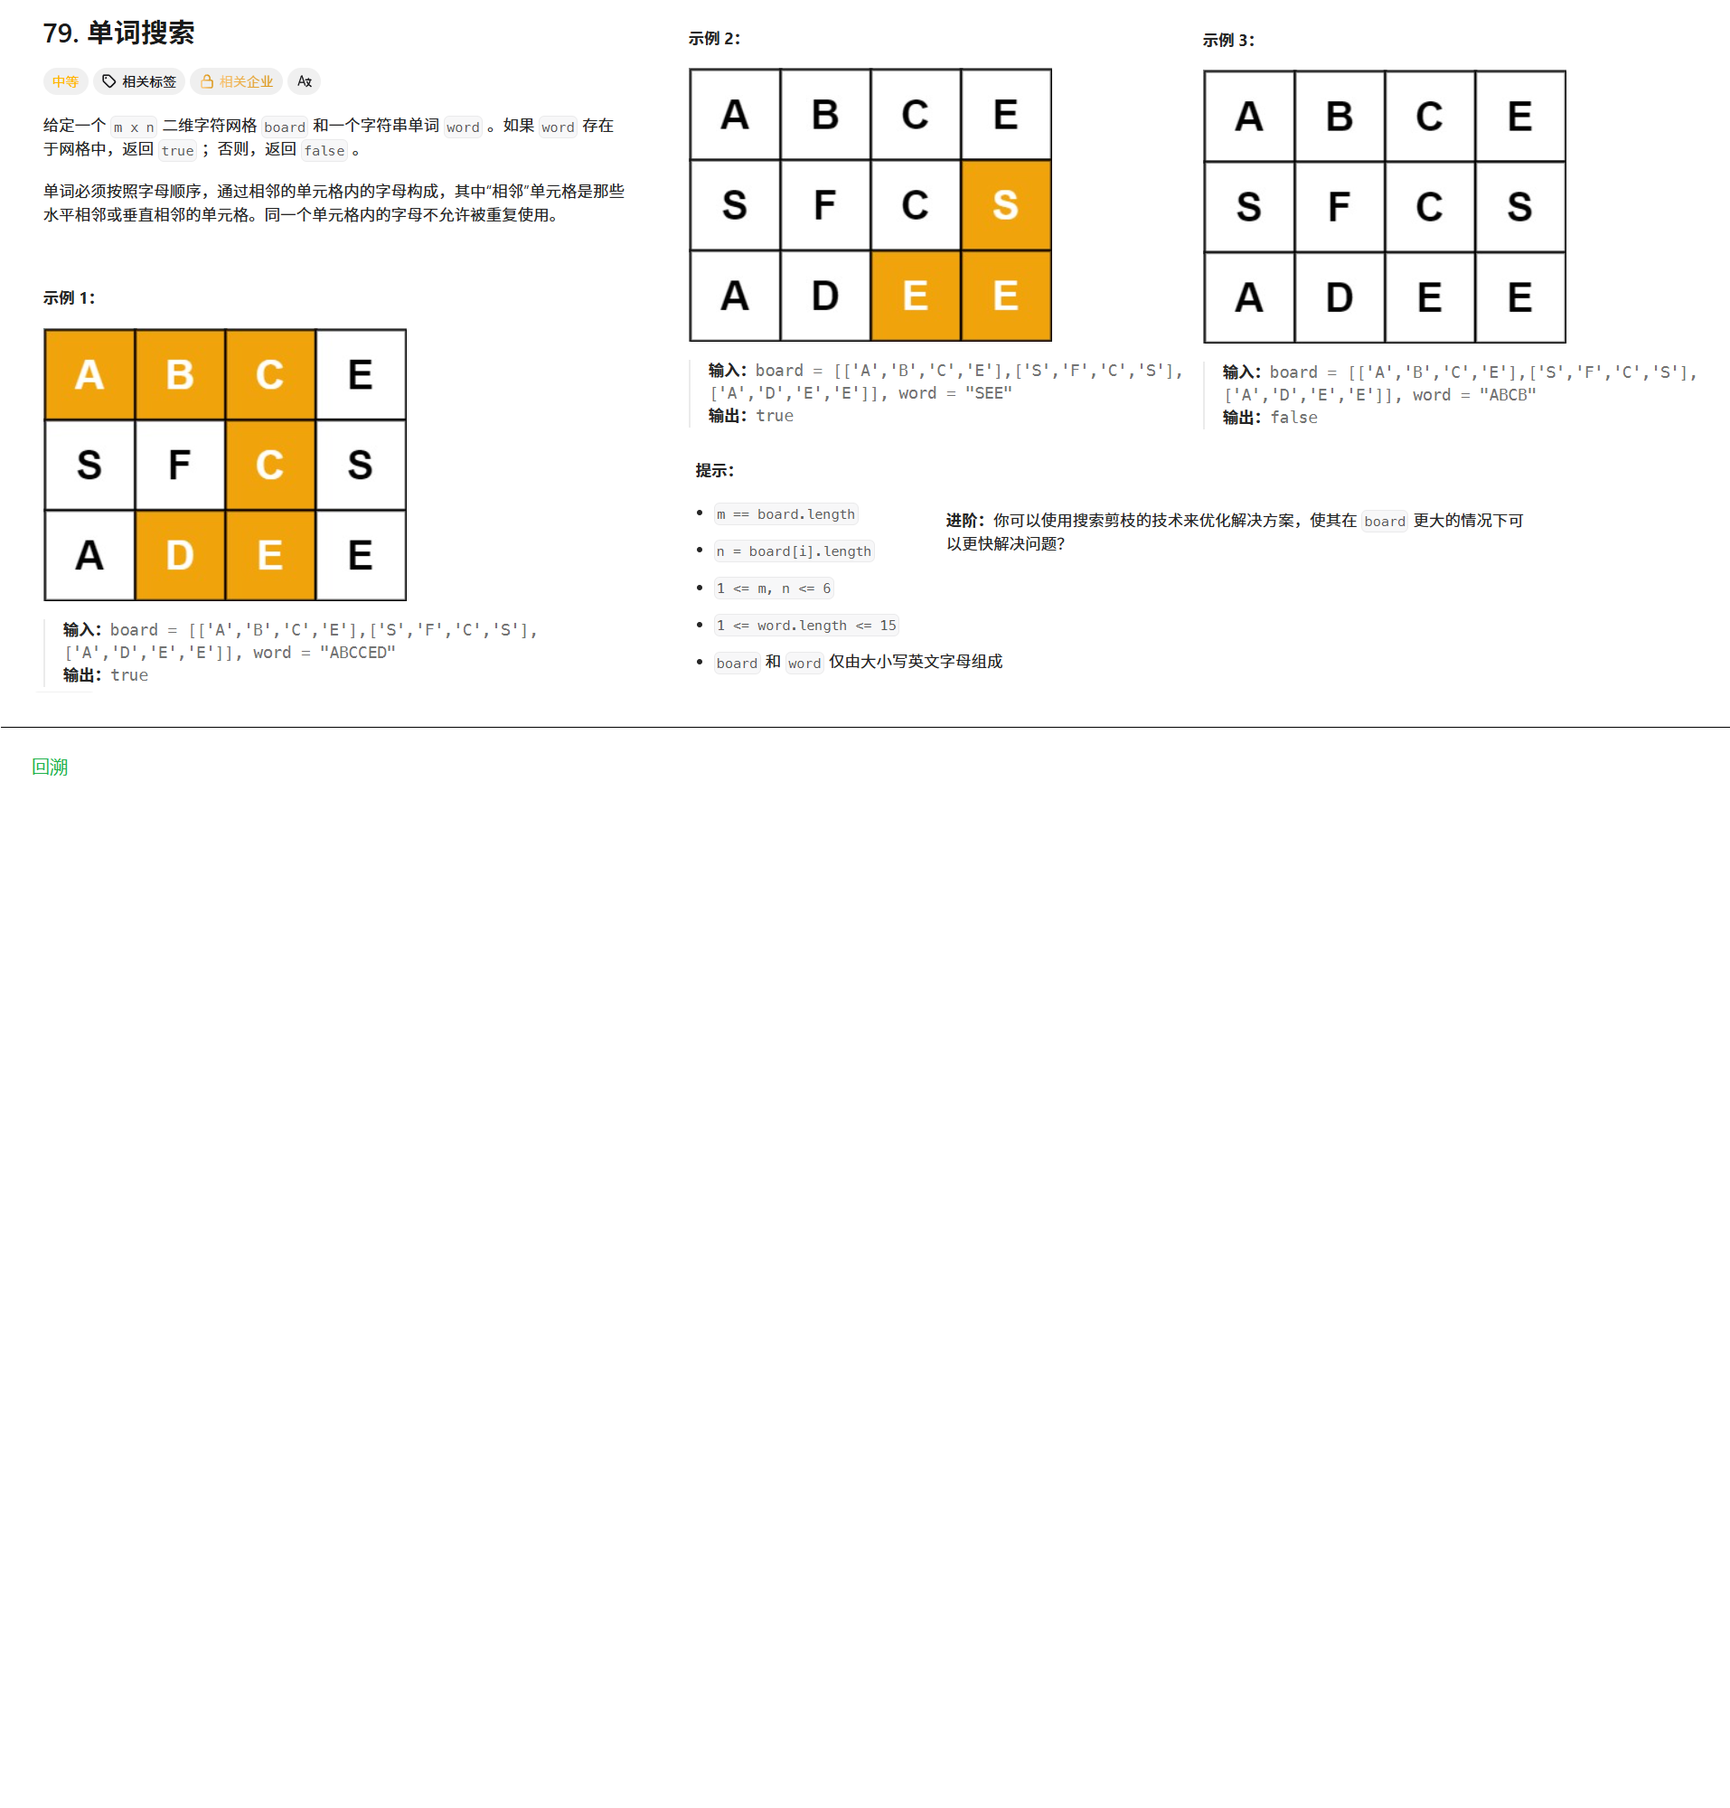
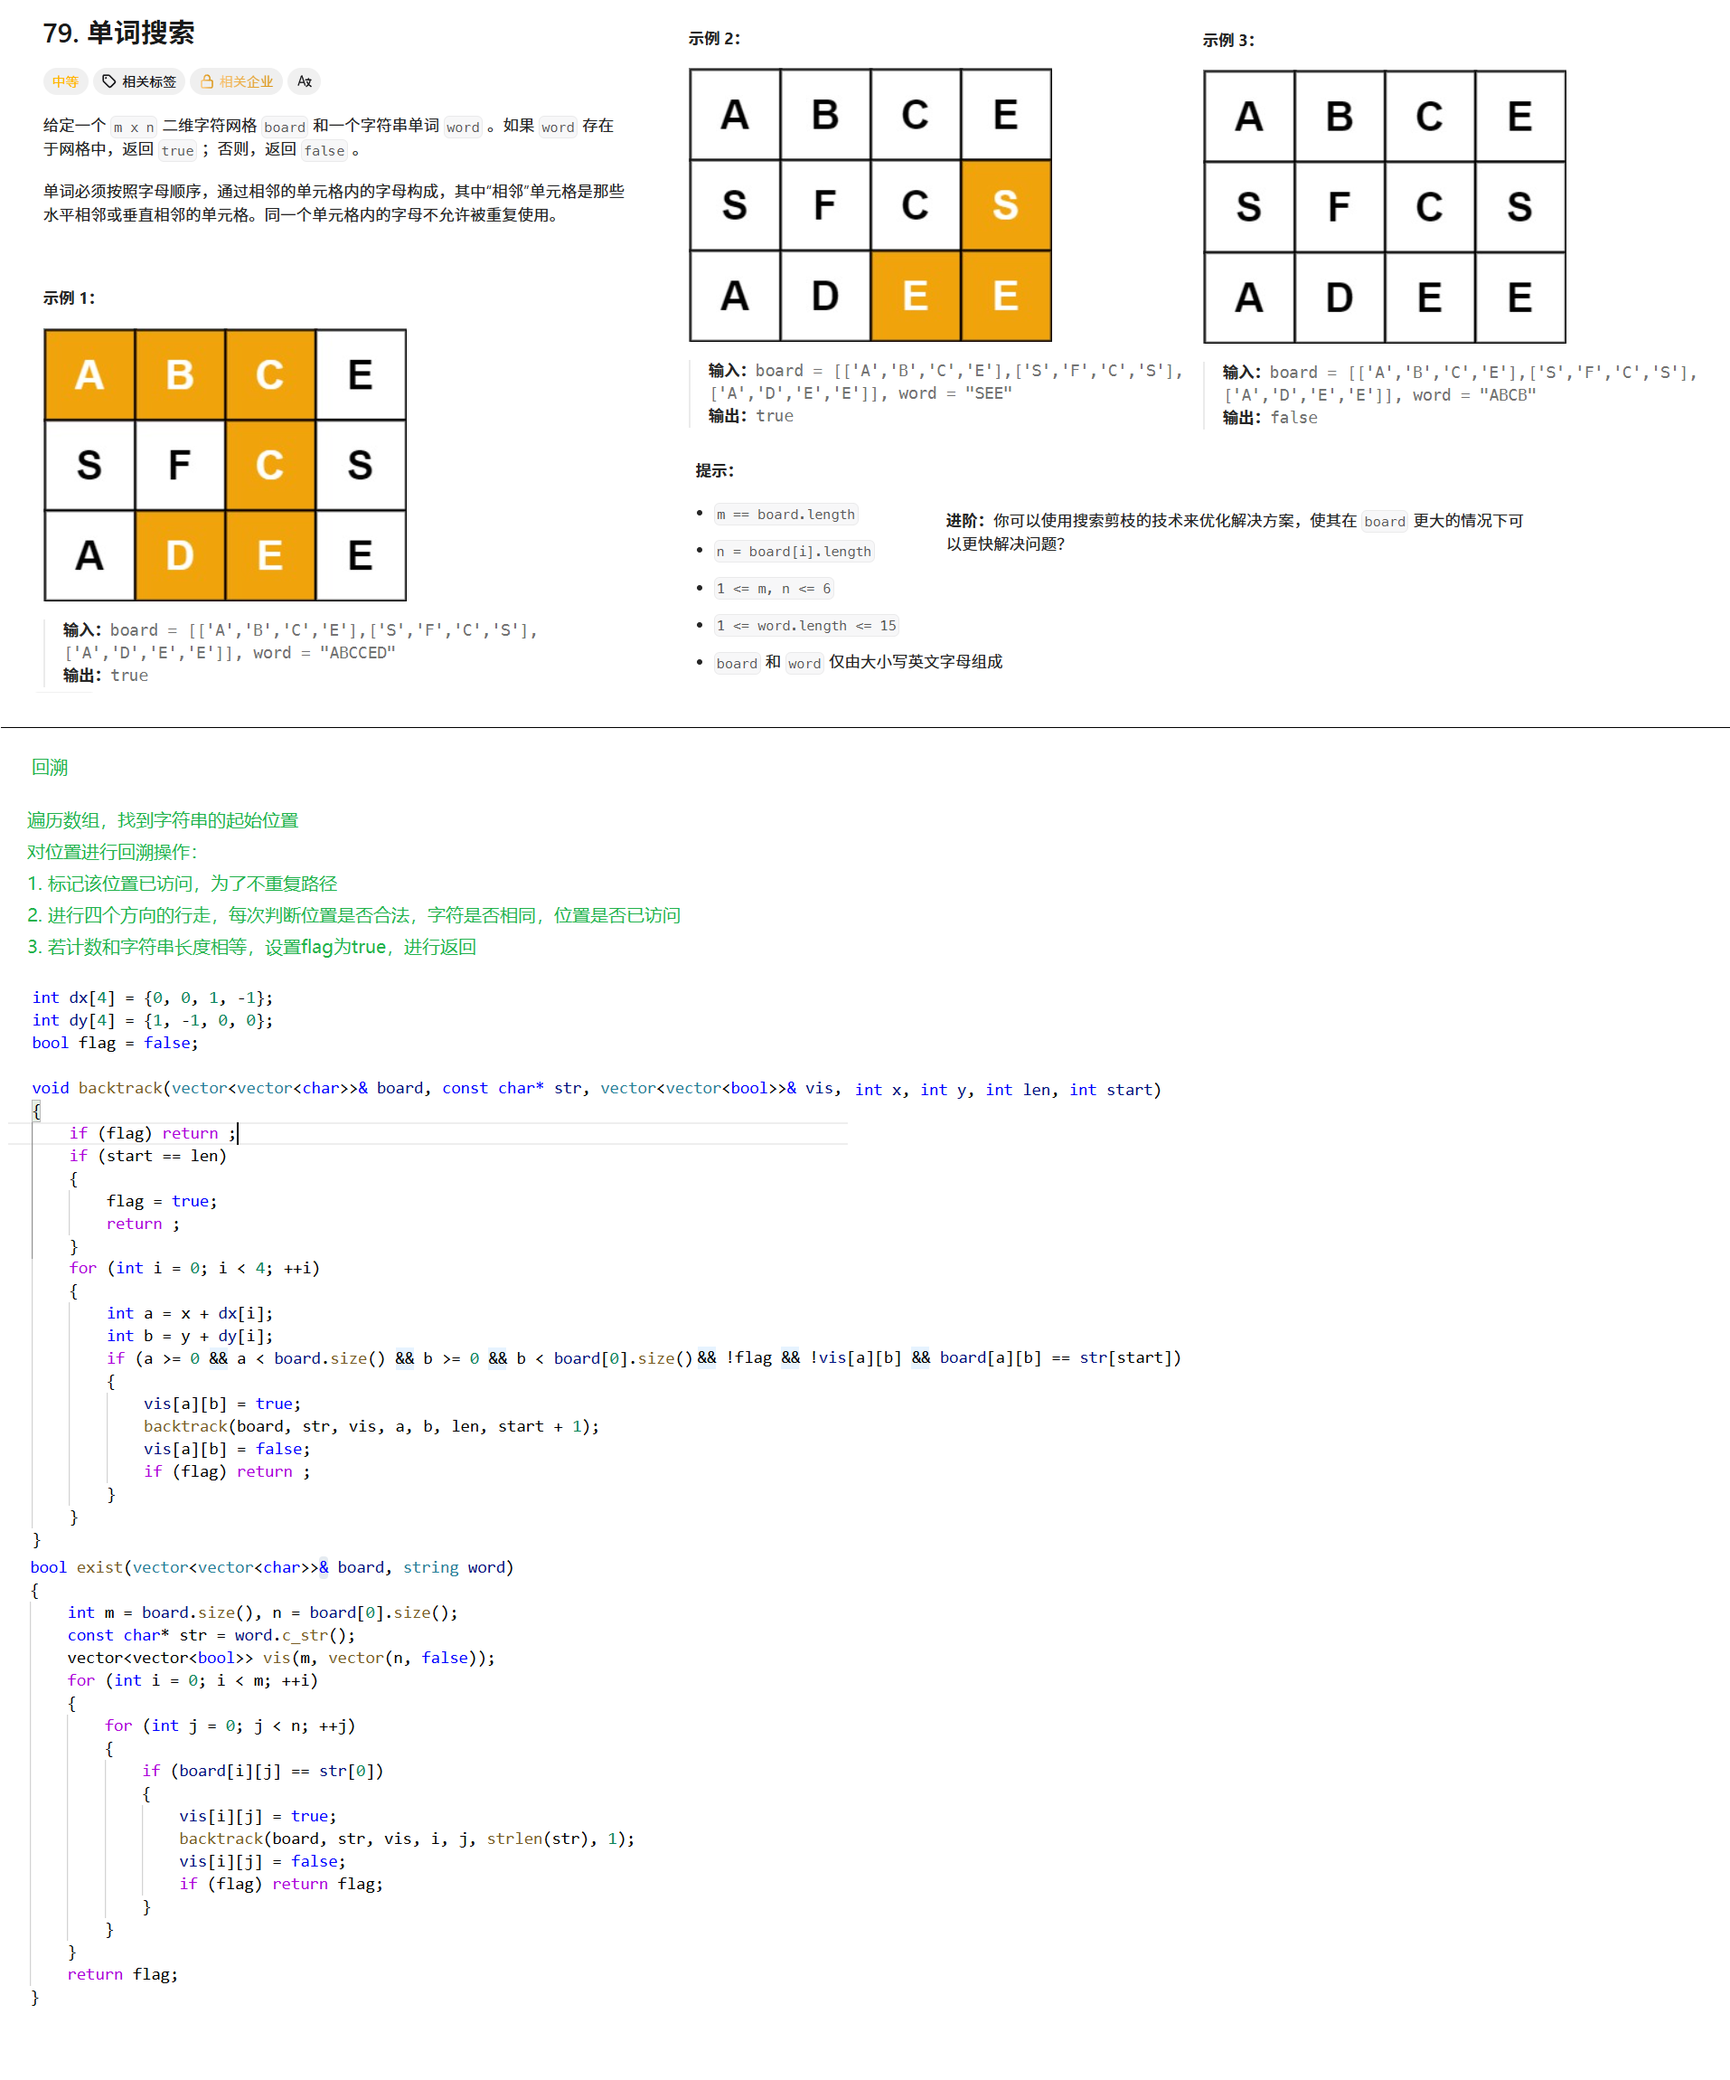
代码添加注释，题目解析添加内容

diff --git a/回溯/单词搜索/代码.cpp b/回溯/单词搜索/代码.cpp
@@ -132,7 +132,7 @@ public:
     bool exist(vector<vector<char>>& board, string word) 
     {
         //回溯
-        //时间复杂度O(M*N*3^L) 空间复杂度O(MN)
+        //时间复杂度O(M*N*3^L) L为字符串的长度 空间复杂度O(MN)
         int m = board.size(), n = board[0].size(); //
         const char* str = word.c_str();
         vector<vector<bool>> vis(m, vector(n, false));
@@ -140,8 +140,10 @@ public:
         {
             for (int j = 0; j < n; ++j)
             {
+                //从字符串开始位置进行回溯
                 if (board[i][j] == str[0])
                 {
+                    //标记位置已访问，防止重复
                     vis[i][j] = true;
                     backtrack(board, str, vis, i, j, strlen(str), 1);
                     vis[i][j] = false;
